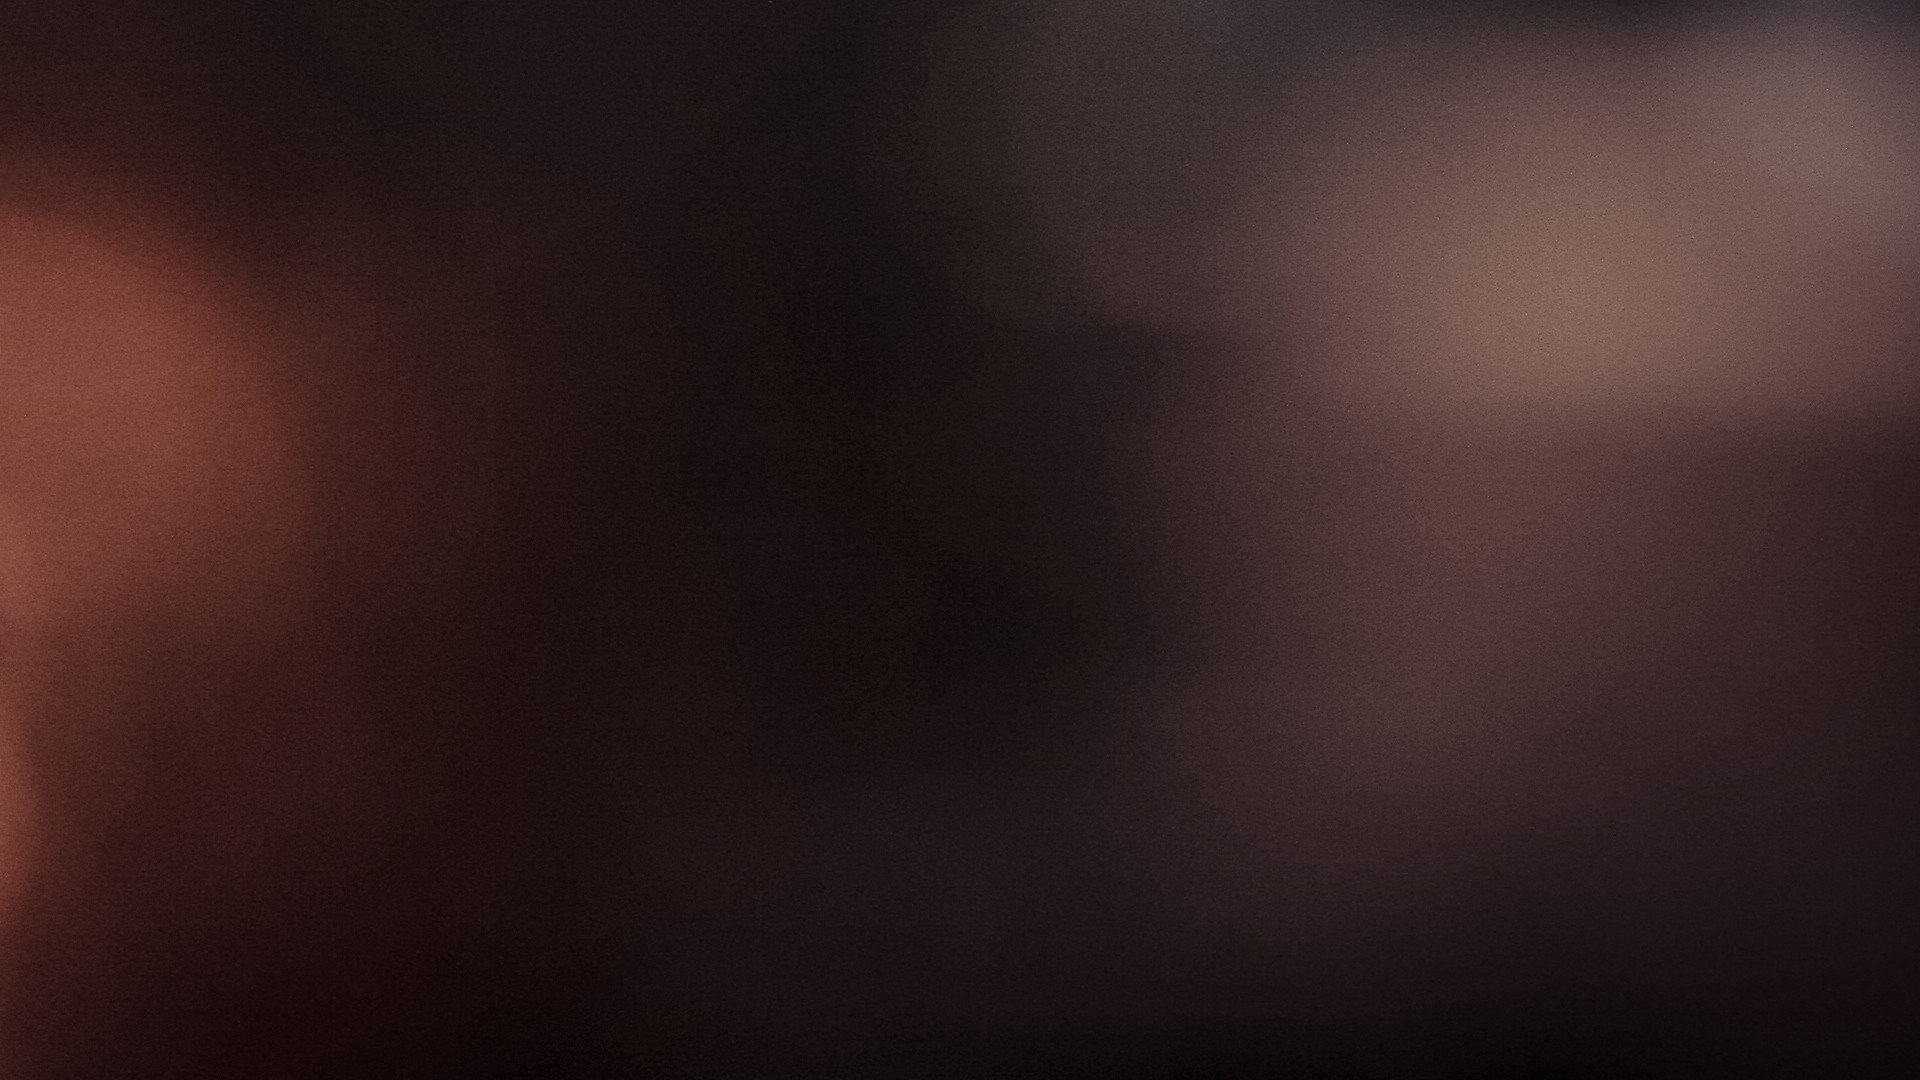
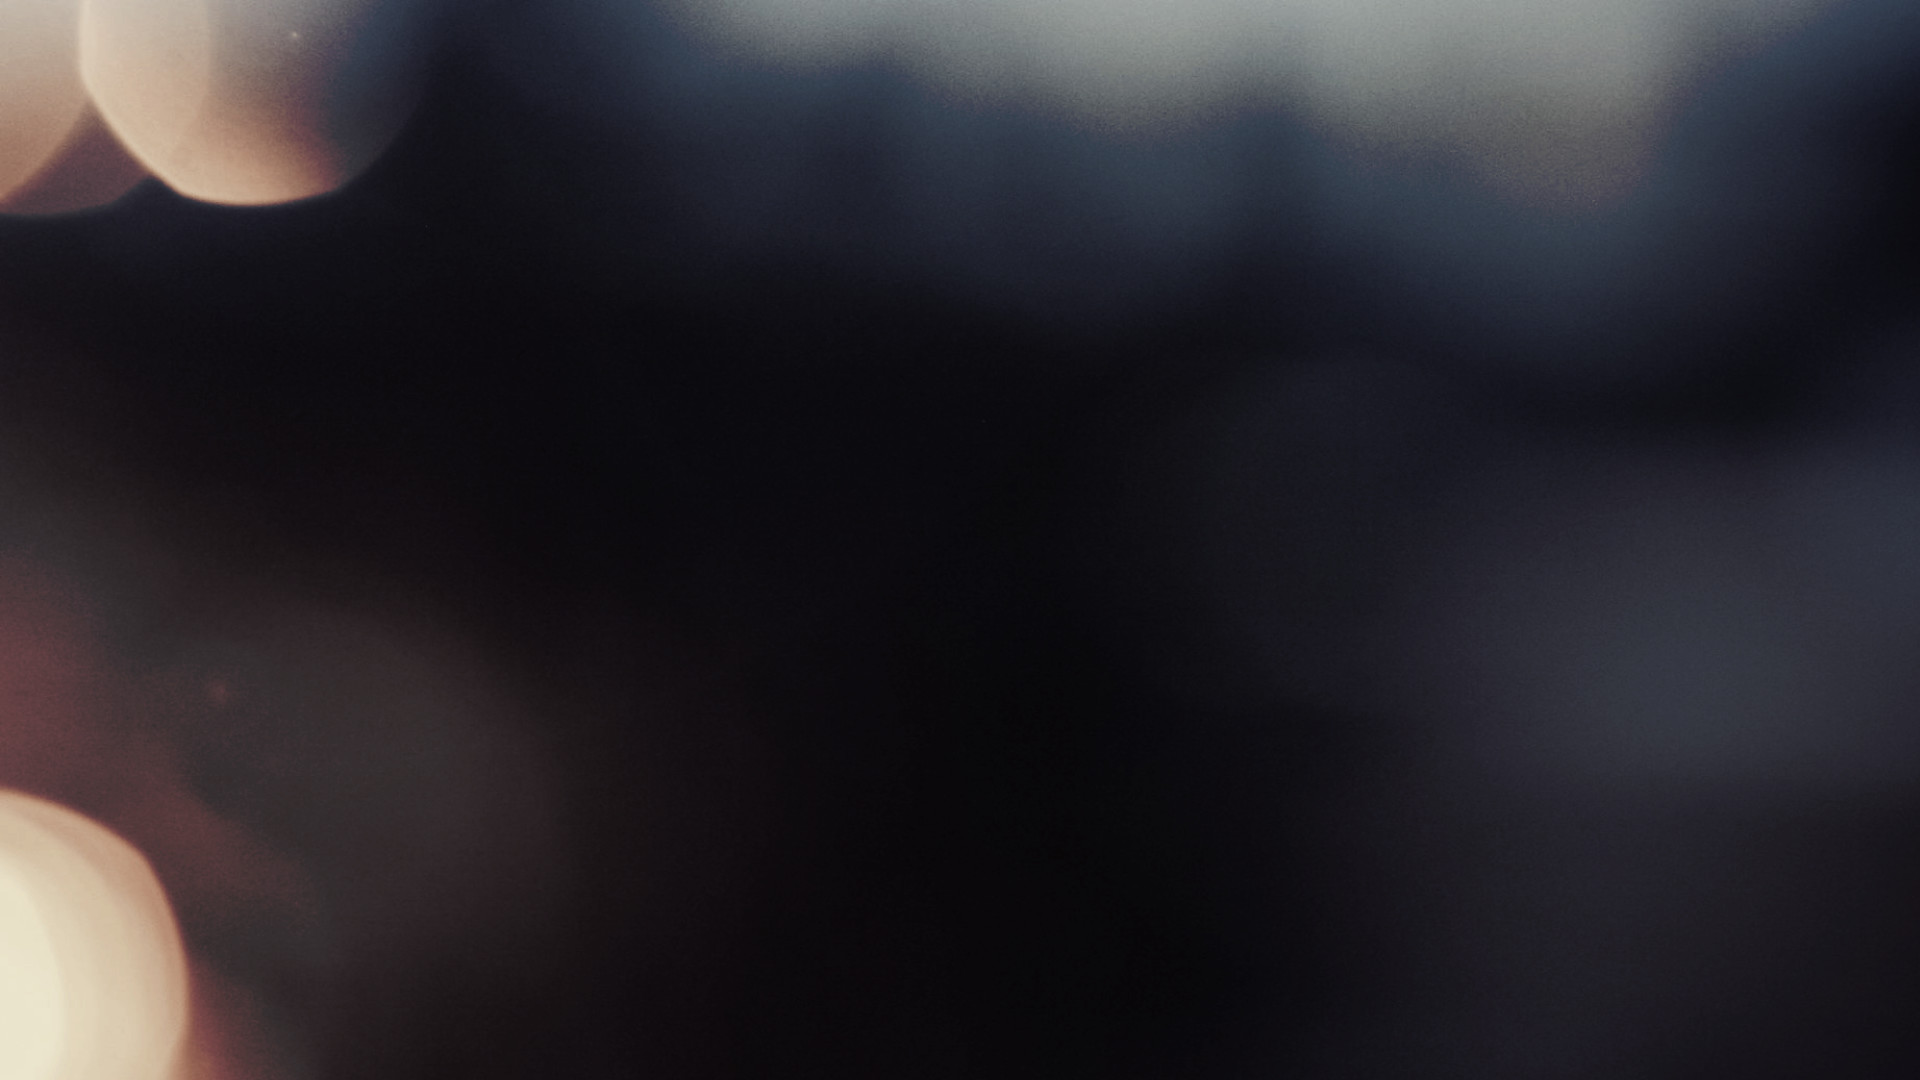
done with mobiile navigation css

diff --git a/src/styles/global.css b/src/styles/global.css
@@ -11,7 +11,7 @@
 
 [data-theme="dark"] {
     /* --background-image: url(/src/assets/dark-theme-bg.jpg); */
-    --body-bg-image: url(/src/assets/dark-theme-bg-5.jpg);
+    --body-bg-image: url(/src/assets/dark-theme-bg.jpg);
     --body-bg-color: #040A12;
     --body-text-color: var(--white);
 
@@ -27,6 +27,9 @@
     --navbar-link-bg-color-active: rgba(176, 136, 99, 0.8);
     --navbar-link-bg-color-active-hover: #9E9088;
     --navbar-social-link-color-hover: var(--white);
+
+    --mobile-navbar-bg-color: #040A12;
+    --mobile-navbar-toggle-btn-bg-color: #F2F2F2;
 
     --hero-heading-color: rgba(245, 242, 237, 0.8);
     --hero-eyebrow-text-color: rgba(197, 194, 211, 0.4);
@@ -52,6 +55,9 @@
     --navbar-link-bg-color-active: rgba(45, 55, 66, 0.8);
     --navbar-link-bg-color-active-hover: #9E9088;
     --navbar-social-link-color-hover: #4E4749;
+
+    --mobile-navbar-bg-color: #E3E1DD;
+    --mobile-navbar-toggle-btn-bg-color: #4E4749;
 
     --hero-heading-color: #4E4749;
     --hero-eyebrow-text-color: rgba(135, 103, 88, 0.4);
@@ -128,7 +134,7 @@ body::after {
     /*width: 100%;*/
 }
 
-.navbar .nav-links,
+.nav-links,
 .nav-theme-toggle {
     list-style: none;
     display: flex;
@@ -145,19 +151,21 @@ body::after {
     padding: 1rem 2rem;
 }
 
-
 .navbar .nav-links li a:hover,
+#navigation-mobile-menu .nav-links li a:hover,
 .nav-theme-toggle a:hover,
 #navigation-menu-btn:hover {
     color: var(--navbar-link-color-hover);
 }
 
-.nav-links li a.active {
+.navbar .nav-links li a.active,
+#navigation-mobile-menu .nav-links li a.active {
     color: var(--navbar-link-color-active);
     background-color: var(--navbar-link-bg-color-active);
 }
 
-.nav-links li a.active:hover {
+.navbar .nav-links li a.active:hover,
+#navigation-mobile-menu .nav-links li a.active:hover {
     color: var(--navbar-link-color-active);
     background-color: var(--navbar-link-bg-color-active-hover);
 }
@@ -213,8 +221,27 @@ body::after {
     display: none;
 }
 
+:has(#navigation-menu-btn[aria-expanded="true"]) #navigation-mobile-menu {
+    position: fixed;
+    right: 0;
+    top: 0;
+    width: 300px;
+    display: flex;
+    flex-direction: column;
+    background: var(--mobile-navbar-bg-color);
+    height: 100%;
+    z-index: 1001;
+}
+
+:has(#navigation-close-btn[aria-expanded="false"]) #navigation-mobile-menu {
+    display: none;
+}
+
 #navigation-mobile-menu {
     display: none;
+    font-size: 1.1rem;
+    letter-spacing: 0.2rem;
+    box-shadow: 0 1px 20px rgba(0, 0, 0, 0.5);
 }
 
 #navigation-mobile-menu .nav-row {
@@ -224,33 +251,63 @@ body::after {
 }
 
 #navigation-close-btn {
-
+    display: flex;
+    align-items: center;
     cursor: pointer;
+    padding: 1.2rem;
 }
 
 #navigation-close-btn .icon {
-    width: 30px;
-    height: 30px;
+    width: 24px;
+    height: 24px;
 }
 
+#navigation-close-btn span {
+    color: var(--mobile-navbar-toggle-btn-bg-color);
+    margin-left: 0.4rem;
 
-:has(#navigation-menu-btn[aria-expanded="true"]) #navigation-mobile-menu {
-    position: fixed;
-    right: 0;
-    top: 0;
-    width: 400px;
-    display: flex;
+}
+
+#navigation-mobile-menu .nav-links {
     flex-direction: column;
-    background: var(--white);
-    color: var(--black);
-    height: 100%;
-    z-index: 1001;
-    padding: 1.5rem;
+    flex-grow: 1;
 }
 
-:has(#navigation-close-btn[aria-expanded="false"]) #navigation-mobile-menu {
-    display: none;
+#navigation-mobile-menu .nav-links li a {
+    display: flex;
+    text-decoration: none;
+    font-weight: 500;
+    color: var(--navbar-link-color);
+    transition: color 0.3s ease;
+    padding: 2rem 1.2rem;
 }
+
+.mobile-dark-light-toggle-btn {
+    cursor: pointer;
+    display: flex;
+    justify-content: center;
+    align-items: center;
+    width: 100%;
+    padding: 1.6rem 3rem;
+    color: var(--mobile-navbar-bg-color);
+    background-color: var(--mobile-navbar-toggle-btn-bg-color);
+}
+
+.mobile-dark-light-toggle-btn .icon {
+    width: 70px;
+    height: 70px;
+}
+
+.mobile-dark-light-toggle-btn span {
+    margin-left: 1rem;
+    text-align: center;
+    font-weight: 500;
+    text-transform: uppercase;
+}
+
+
+
+
 
 
 
@@ -359,7 +416,7 @@ footer {
     }
 
     .navbar .nav-links li a {
-        padding: 1rem 1rem;
+        padding: 1rem;
     }
 
     .nav-theme-toggle a {

diff --git a/src/scripts/menu.ts b/src/scripts/menu.ts
@@ -1,6 +1,8 @@
 import { LIGHT_THEME, DARK_THEME, SWITCH_TO_LIGHT_MODE_TXT, SWITCH_TO_DARK_MODE_TXT } from '../lib/constants'
 const themeToggleBtn = document.getElementById('theme-toggle-btn') as HTMLFormElement;
 const mobileThemeToggleBtn = document.getElementById('mobile-theme-toggle-btn') as HTMLFormElement;
+const mobileLightModeBtn = document.getElementById('mobile-light-mode-btn') as HTMLFormElement;
+const mobileDarkModeBtn = document.getElementById('mobile-dark-mode-btn') as HTMLFormElement;
 const lightModeIcon = document.getElementById('theme-icon-sun') as HTMLFormElement;
 const darkModeIcon = document.getElementById('theme-icon-moon') as HTMLFormElement;
 const navigationMenuBtn = document.getElementById('navigation-menu-btn') as HTMLFormElement;
@@ -17,9 +19,8 @@ function init() {
     document.documentElement.setAttribute('data-theme', saved);
     lightModeIcon.style.display = saved === DARK_THEME ? 'block' : 'none';
     darkModeIcon.style.display = saved === DARK_THEME ? 'none' : 'block';
-
-    themeToggleBtn.title = saved === DARK_THEME ? SWITCH_TO_LIGHT_MODE_TXT : SWITCH_TO_DARK_MODE_TXT;
-    mobileThemeToggleBtn.innerText = saved === DARK_THEME ? SWITCH_TO_LIGHT_MODE_TXT : SWITCH_TO_DARK_MODE_TXT;
+    mobileLightModeBtn.style.display = saved === DARK_THEME ? 'flex' : 'none';
+    mobileDarkModeBtn.style.display = saved === DARK_THEME ? 'none' : 'flex';
     footerYearTxt.textContent = `${new Date().getFullYear()}`;
 
 }
@@ -41,14 +42,17 @@ function toggleDarkLightTheme() {
     document.documentElement.setAttribute('data-theme', next);
     lightModeIcon.style.display = next === DARK_THEME ? 'block' : 'none';
     darkModeIcon.style.display = next === DARK_THEME ? 'none' : 'block';
+    mobileLightModeBtn.style.display = next === DARK_THEME ? 'flex' : 'none';
+    mobileDarkModeBtn.style.display = next === DARK_THEME ? 'none' : 'flex';
     localStorage.setItem('theme', next);
     themeToggleBtn.title = next === DARK_THEME ? SWITCH_TO_LIGHT_MODE_TXT : SWITCH_TO_DARK_MODE_TXT;
-    mobileThemeToggleBtn.innerText = next === DARK_THEME ? SWITCH_TO_LIGHT_MODE_TXT : SWITCH_TO_DARK_MODE_TXT;
 }
 
 
 themeToggleBtn?.addEventListener('click', toggleDarkLightTheme);
-mobileThemeToggleBtn?.addEventListener('click', toggleDarkLightTheme);
+// mobileThemeToggleBtn?.addEventListener('click', toggleDarkLightTheme);
+mobileDarkModeBtn?.addEventListener('click', toggleDarkLightTheme);
+mobileLightModeBtn?.addEventListener('click', toggleDarkLightTheme);
 navigationMenuBtn?.addEventListener('click', toggleMobileNavigationMenu);
 navigationCloseBtn?.addEventListener('click', toggleMobileNavigationMenu);
 